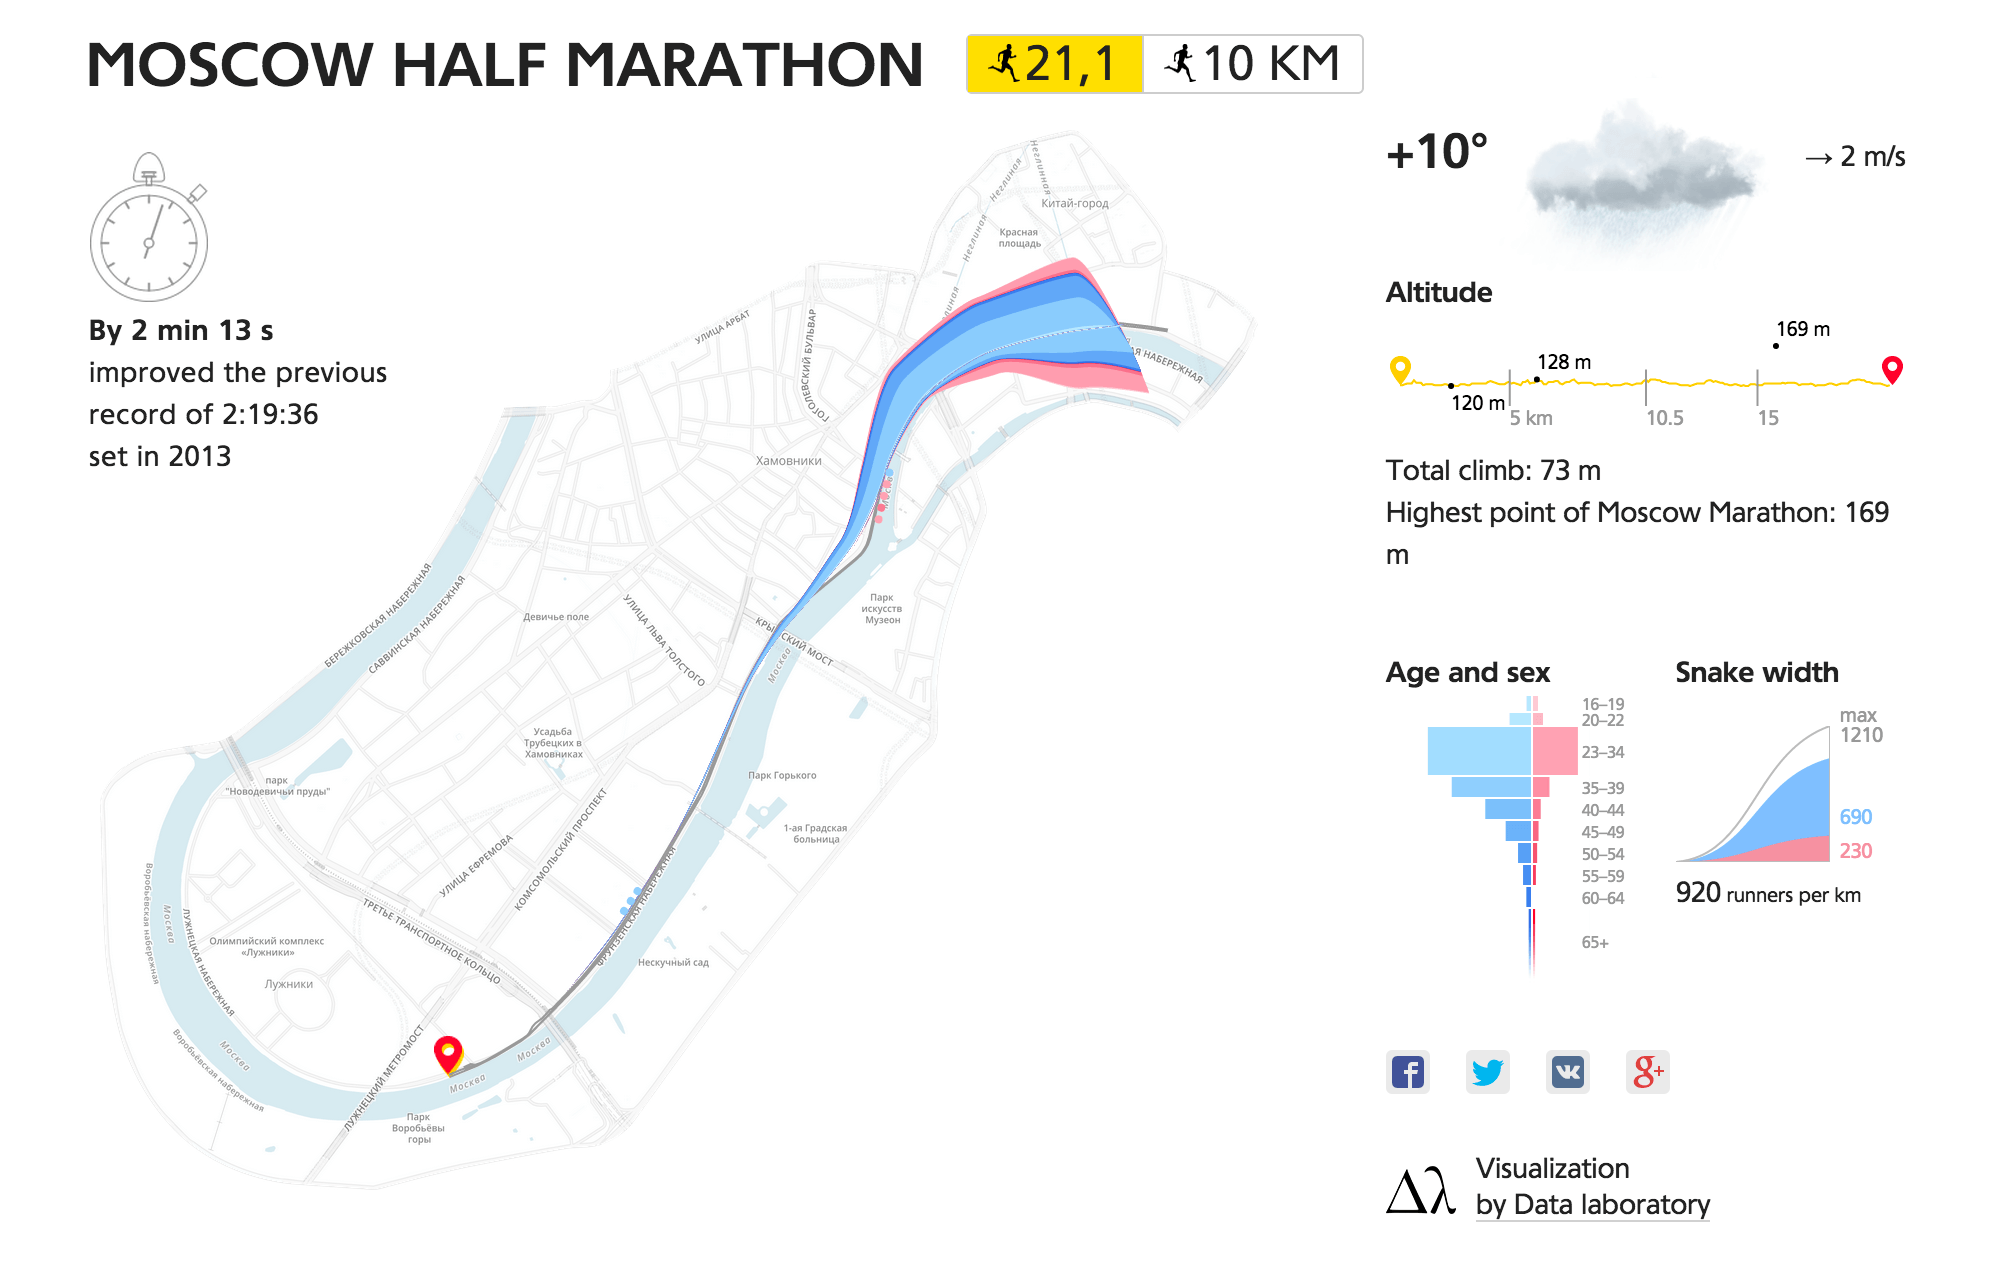
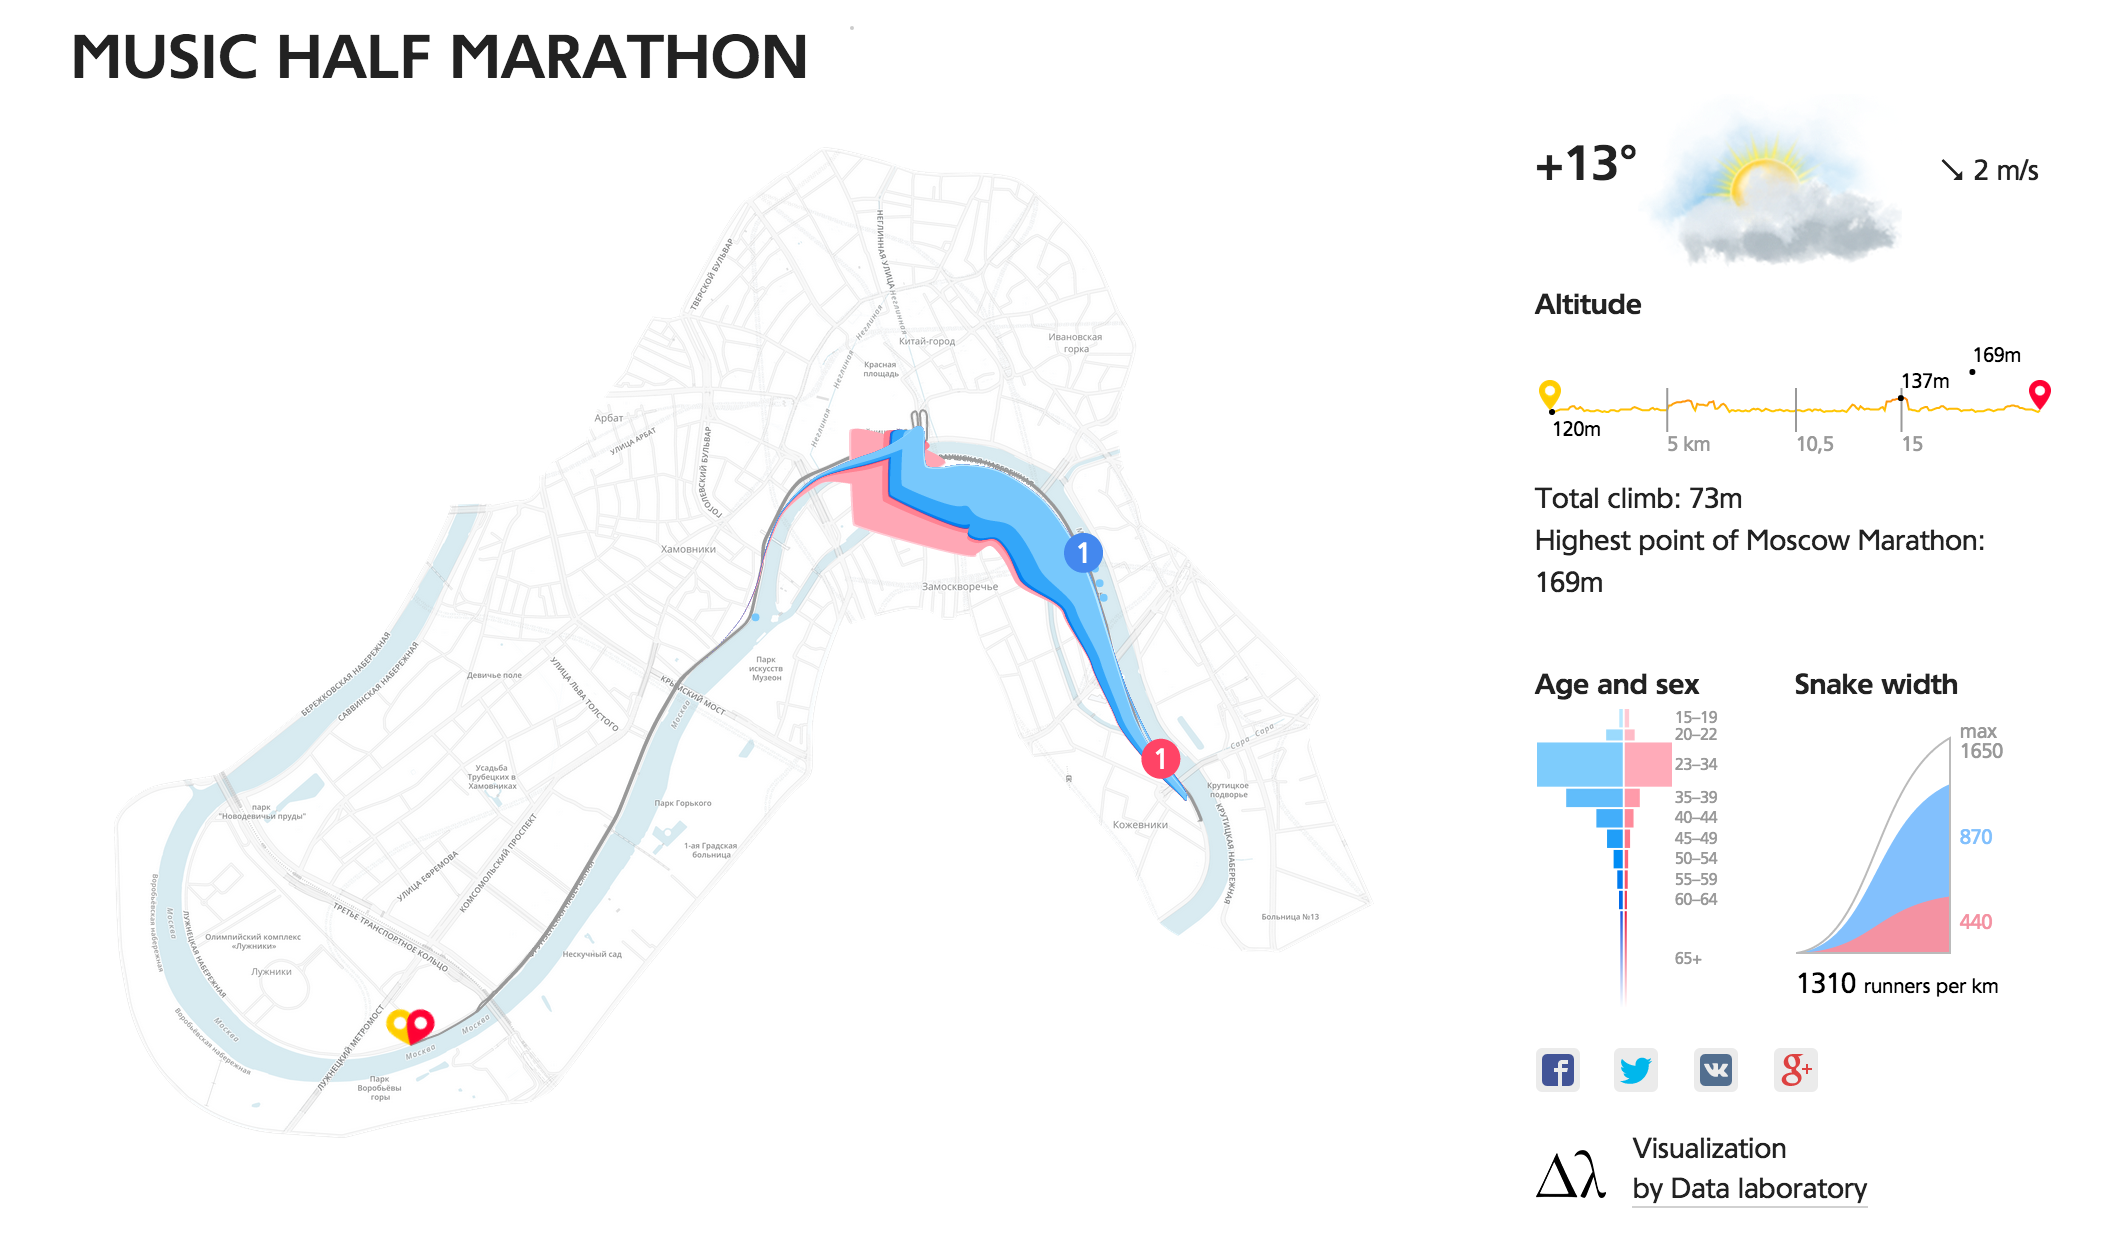
add new map and weather

diff --git a/src/js/controllers/marathon.js b/src/js/controllers/marathon.js
@@ -53,10 +53,13 @@ angular.module('marathon').controller('MarathonController', function ($scope, $r
                 return data.data.data
             })).map(function (runner) {
 
+                var realStartTime = runner[fieldNames.indexOf('realStartTime')];
+                realStartTime =  (!realStartTime) ? startTime *1 : getDateFromDayStart(realStartTime, startTime);
                 var processedRunner = {result_steps: [{
                     distance: 0,
-                    time: getDateFromDayStart(runner[fieldNames.indexOf('realStartTime')], startTime)
+                    time: realStartTime
                 }]};
+
                 fieldNames.forEach(function (field, i) {
                     if (field == String(parseInt(field)) && runner[i]) {
                         processedRunner.result_steps.push({distance: +field, time: getDateFromString(runner[i], startTime) * 1})
@@ -67,6 +70,7 @@ angular.module('marathon').controller('MarathonController', function ($scope, $r
                 if (processedRunner['resultTime'].indexOf(':') < 0) {
                     var result_time_string = 'н/ф';
                     runner.gender = 2;
+
                 } else {
                     result_time_string = processedRunner['resultTime'];
                     var finishTime = getDateFromString(result_time_string, startTime)

diff --git a/src/js/directives/mapContainer.js b/src/js/directives/mapContainer.js
@@ -15,17 +15,11 @@ angular.module('marathon').directive('mapContainer', function ($rootScope, mapHe
         replace: true,
         link: function link($scope, $element) {
             $scope.mapParams = {
-                '10km': {
-                    width: 610,
-                    height: 540,
-                    x: 26,
-                    y: 100
-                },
                 '21km': {
-                    width: 610,
-                    height: 540,
-                    x: 26,
-                    y: 100
+                    width: 635,
+                    height: 500,
+                    x: 21,
+                    y: 97
                 }//todo: в отдельный json
             };
             $scope.selectedRunnerOnMap = {
@@ -72,6 +66,9 @@ angular.module('marathon').directive('mapContainer', function ($rootScope, mapHe
                     time,
                     step);
             }
+            $scope.printRunner = function(runner) {
+                console.log(runner)
+            };
 
             var firstTime = true;
             $scope.$watch('selectedTrack', function (selectedTrack) {

diff --git a/src/templates/directives/runnersList.html b/src/templates/directives/runnersList.html
@@ -12,8 +12,8 @@
             >
         <div class="runners-list__position">
             <span class="runners-list__mark">
-                <span data-ng-show="!filterValues.gender && !states.winnersInTable">{{::runner.pos}}</span>
-                <span data-ng-show="filterValues.gender || states.winnersInTable">{{::runner.gender_pos}}</span>
+                <span data-ng-show="!filterValues.gender && !states.winnersInTable && runner.gender != 2">{{::runner.pos}}</span>
+                <span data-ng-show="(filterValues.gender || states.winnersInTable) && runner.gender != 2">{{::runner.gender_pos}}</span>
             </span></div>
         <div class="runners-list__name">{{::runner.full_name}}</div>
         <div class="runners-list__number">{{::runner.num}}</div>

diff --git a/src/js/services/mapHelper.js b/src/js/services/mapHelper.js
@@ -172,7 +172,7 @@ angular.module('marathon').factory('mapHelper', function (track, genderColors) {
     };
 
     var hclc = {
-        height_scale: 0.8,
+        height_scale: 0.53,
         man_place_square: Math.pow(3, 2)
     };
 
@@ -378,7 +378,8 @@ angular.module('marathon').factory('mapHelper', function (track, genderColors) {
                 cx: position.x,
                 cy: position.y,
                 r: point_radius,
-                fill: genderColors.genderGradients[runner.gender](genderColors.colorNumberScale(runner.age))
+                fill: genderColors.genderGradients[runner.gender](genderColors.colorNumberScale(runner.age)),
+                runner: runner
             }
         };
 

diff --git a/src/js/directives/altitudeLegend.js b/src/js/directives/altitudeLegend.js
@@ -11,18 +11,11 @@ angular.module('marathon').directive('altitudeLegend', function ($timeout, $root
     function distanceParams() {
         var distance_in_km = Math.round(track.getTrackLength() / 1000);
         return {
-            '10km': {
-                marks: [2, distance_in_km / 2, 7],
-                maxPoint: {
-                    alt: 169,
-                    x: 0.75
-                }
-            },
             '21km': {
                 marks: [5, distance_in_km / 2, 15],
                 maxPoint: {
                     alt: 169,
-                    x: 0.75
+                    x: 0.85
                 }
             }
         }

diff --git a/src/templates/directives/trackSwitch.html b/src/templates/directives/trackSwitch.html
@@ -1,12 +1,12 @@
 <div class="track-switch">
-    <div
+    <!--<div
             class="track-switch__item"
             data-ng-click="currentTrackName = '21km'"
             data-ng-class="{'track-switch__item--active': currentTrackName == '21km'}">
         <img class="track-switch__icon" src="img/runner.png">
-        <span class="track-switch__text">21,1 КМ</span>
+        <span class="track-switch__text">21,1</span>
     </div>
-    <!--<div
+    <div
             class="track-switch__item"
             data-ng-click="currentTrackName = '10km'"
             data-ng-class="{'track-switch__item--active': currentTrackName == '10km'}">

diff --git a/src/templates/directives/weather.html b/src/templates/directives/weather.html
@@ -1,7 +1,7 @@
 <div class="weather">
     <div class="weather__temperature">{{currentWeather.temperature}}</div>
     <div class="weather__sky">
-            <img class="weather__sky-img" data-ng-src="img/weather/{{currentWeather.sky}}.gif"/>
+            <img class="weather__sky-img" data-ng-src="img/weather/{{currentWeather.sky}}"/>
     </div>
     <div class="weather__wind">{{currentWeather.wind}} {{'METER_PER_SECOND' | translate}}</div>
 </div>

diff --git a/src/templates/directives/timeMarks.html b/src/templates/directives/timeMarks.html
@@ -1,6 +1,7 @@
 <div class="time-marks">
     <div class="time-mark"
          data-ng-repeat="mark in timeMarks"
+         data-ng-hide="timeMarks.length - 2 == $index"
          style="left: {{timeScale(mark)}}px;">
         <span class="time-mark__from-start">{{mark | formatTimeFromStart:time.start:$last}}</span> <br>
         <span class="time-mark__from-day">{{mark | formatTimeFromDay:$last}}</span>

diff --git a/src/js/directives/genderAgeLegend.js b/src/js/directives/genderAgeLegend.js
@@ -7,7 +7,6 @@ angular.module('marathon').directive('genderAgeLegend', function (runnerClassifi
             var container = $element;
             var width = container.width();
             var height = container.height();
-            console.log(height, 'height');
             $scope.width = width;
             $scope.height = height;
             var space = 1;

diff --git a/src/js/services/translationRu.js b/src/js/services/translationRu.js
@@ -33,5 +33,5 @@ angular.module('marathon').constant('translationRu', {
     SHOW_MORE_RESULTS: 'Показать ещё 100 результатов',
     VISUALIZATION: 'Визуализация',
     BY_DATA_LABORATORY: 'Лаборатории&nbsp;данных',
-    MAP_SRC: 'img/half-marathon-map.png'
+    MAP_SRC: 'img/music-marathon-map.png'
 });

diff --git a/src/templates/directives/factoids.html b/src/templates/directives/factoids.html
@@ -1,4 +1,5 @@
 <div class="factoids">
+    <!--
     <div data-ng-show="currentTrackName == '21km' ">
         <div
             style="
@@ -18,6 +19,6 @@
                 <div class="factoid__text">improved the previous record of 1:09:32<br>set in 2014</div>
             </div>
         </div>
-    </div>
+    </div>-->
 
 </div>

diff --git a/src/js/services/translationEn.js b/src/js/services/translationEn.js
@@ -33,5 +33,5 @@ angular.module('marathon').constant('translationEn', {
         SHOW_MORE_RESULTS: 'Show more 100 results',
         VISUALIZATION: 'Visualization',
         BY_DATA_LABORATORY: 'by&nbsp;Data&nbsp;laboratory',
-        MAP_SRC: 'img/half-marathon-map.png'
+        MAP_SRC: 'img/music-marathon-map.png'
 });
